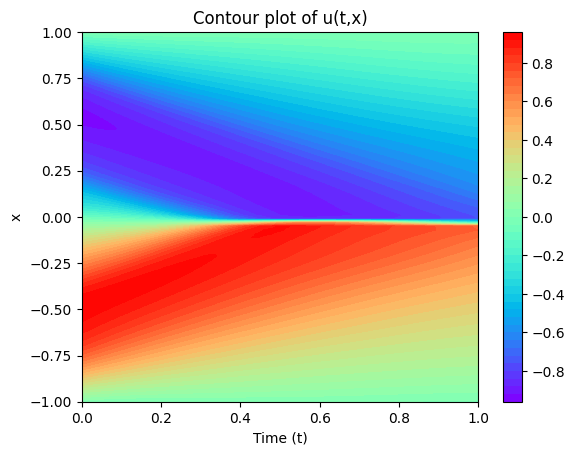
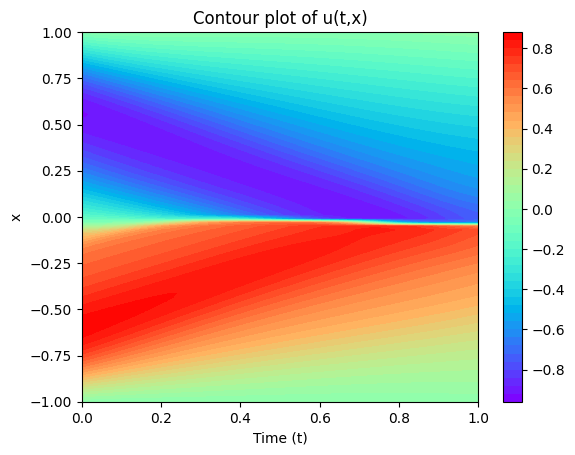
HW3 Done

diff --git a/HW3/HW3_PINN.py b/HW3/HW3_PINN.py
@@ -134,7 +134,7 @@ optimizer = torch.optim.LBFGS(model.parameters(),line_search_fn="strong_wolfe", 
 # %% training loop 
 train_losses = []
 test_losses = []
-epochs = 10 # number of epochs org = 1000
+epochs = 1 # number of epochs org = 1000
 
 def closure():
     optimizer.zero_grad() # zero the gradients from the last step
